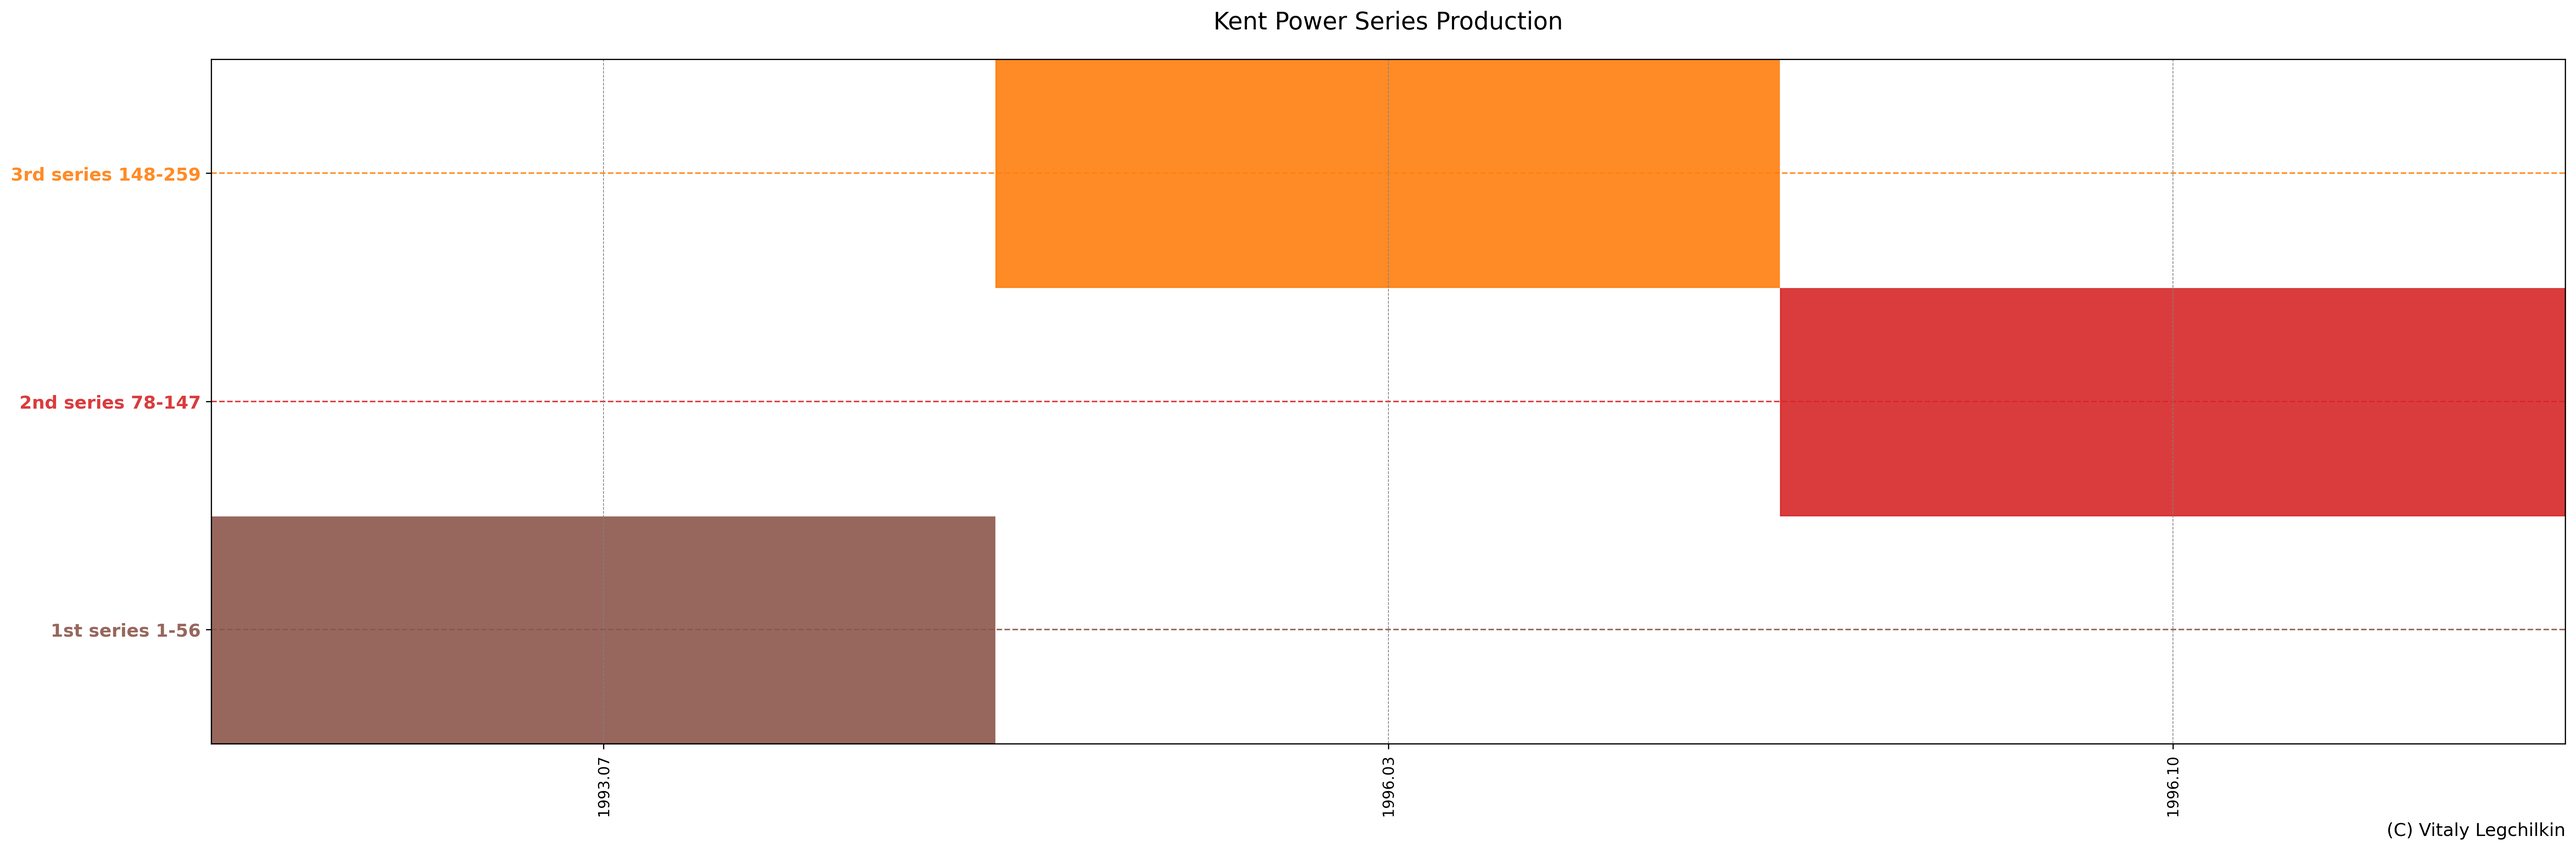
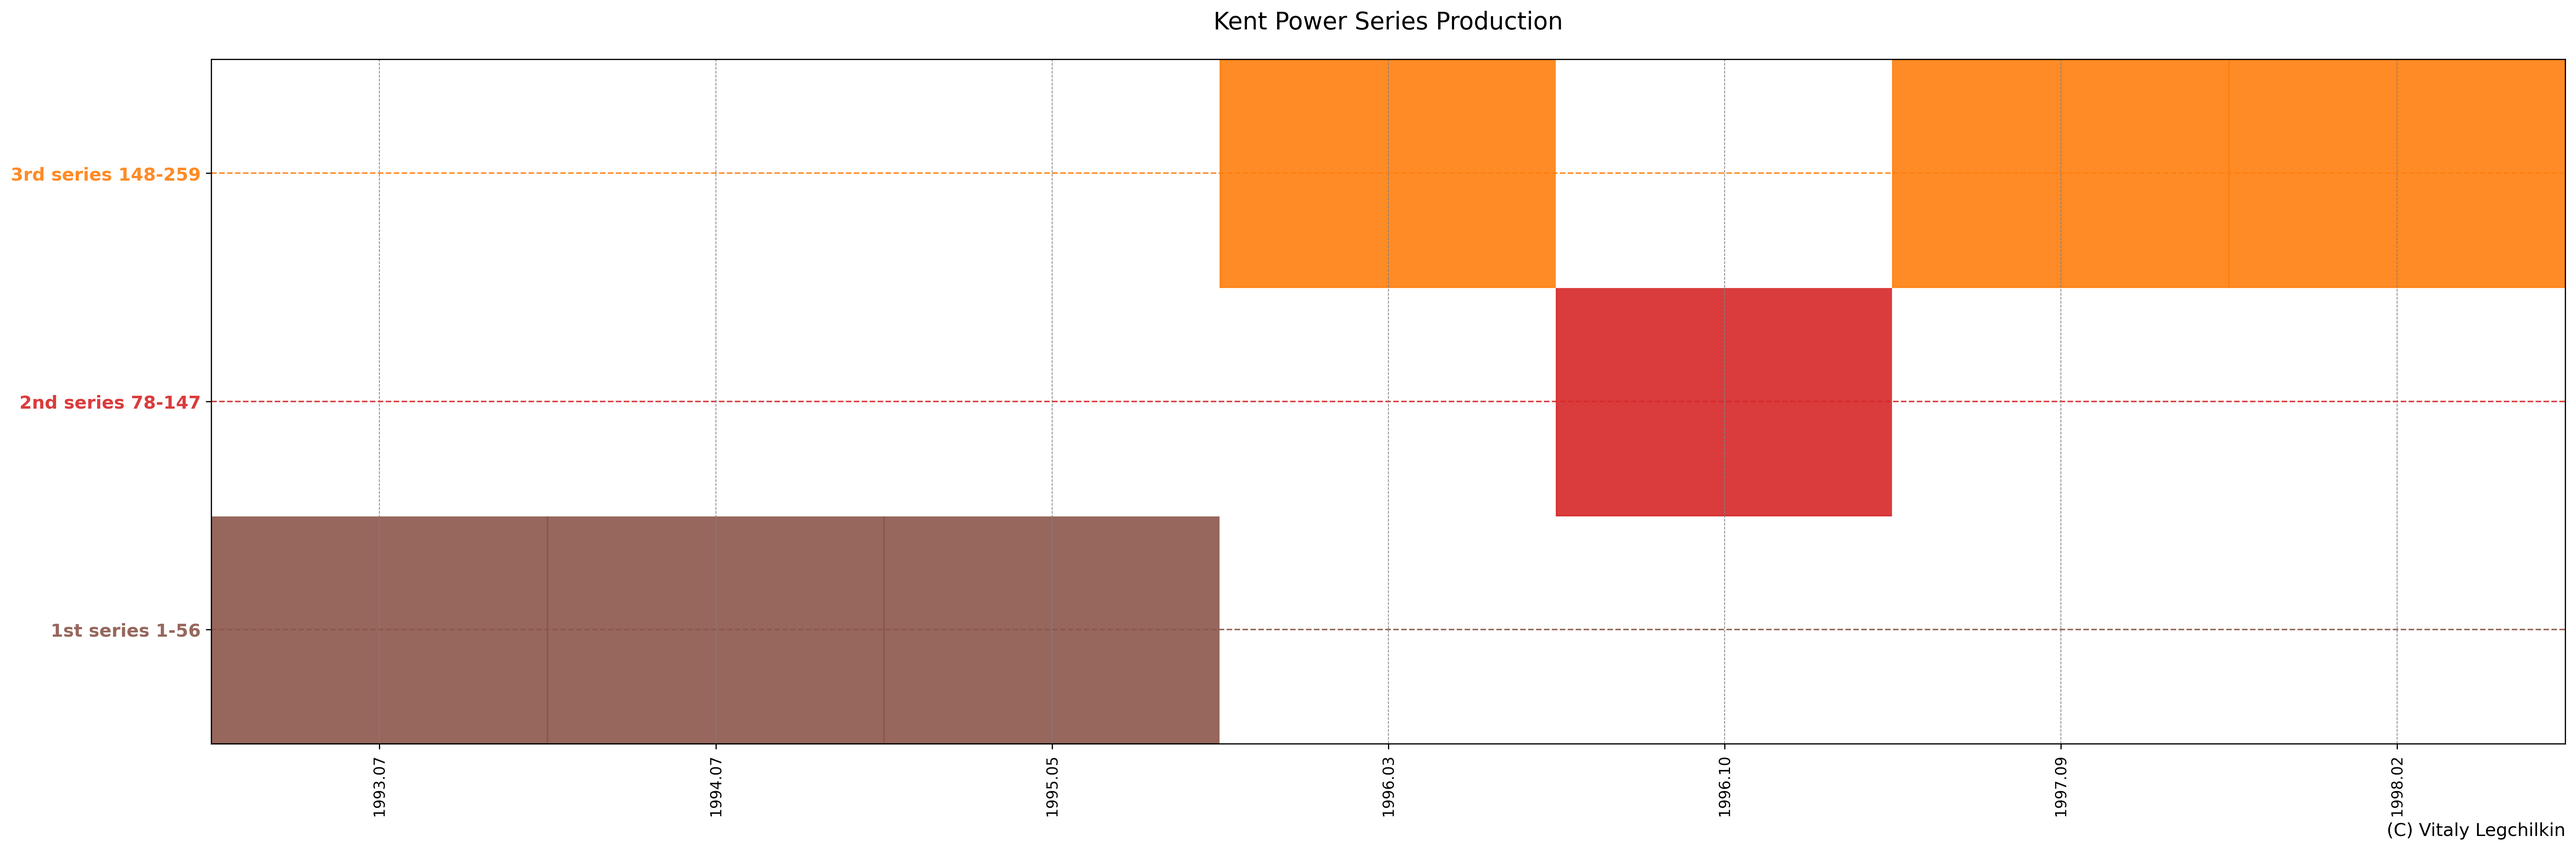
add power

Changed region(s): [[0.5935, 0.0617, 0.9996, 0.6168], [0.3748, 0.586, 0.4998, 0.8944], [0.3748, 0.0617, 0.4998, 0.3392]]

diff --git a/gum_wrappers/kent/power/index.md b/gum_wrappers/kent/power/index.md
@@ -10,13 +10,12 @@ layout: default
 
 ## Statistic
 
-
-\[Covers: 0 of 3\]
+\[Covers: 0 of 7\]
 \[Wrappers: 0 of 238\]
 
 ## [1st series 1-56](1-56)
 
-Covers: 0 / 1
+Covers: 0 / 3
 Wrappers: 0 / 56
 
 <table style="width:100%">
@@ -24,6 +23,10 @@ Wrappers: 0 / 56
         <td style="width:50%;text-align: center">
             1993.07 [G93] <br/>
             <a href='/collection/gum_wrappers/kent/turbo/missed_outer.png' target='_blank'><img src='/collection/gum_wrappers/kent/turbo/missed_outer.png' width='50' alt='1993.07 [G93] .1'/></a>
+            <br/>1994.07 [G94] <br/>
+            <a href='/collection/gum_wrappers/kent/turbo/missed_outer.png' target='_blank'><img src='/collection/gum_wrappers/kent/turbo/missed_outer.png' width='50' alt='1994.07 [G94] .1'/></a>
+            <br/>1995.05 [E95] <br/>
+            <a href='/collection/gum_wrappers/kent/turbo/missed_outer.png' target='_blank'><img src='/collection/gum_wrappers/kent/turbo/missed_outer.png' width='50' alt='1995.05 [E95] .1'/></a>
             <br/>
         </td>
         <td>
@@ -178,7 +181,7 @@ Wrappers: 0 / 70
 
 ## [3rd series 148-259](148-259)
 
-Covers: 0 / 1
+Covers: 0 / 3
 Wrappers: 0 / 112
 
 <table style="width:100%">
@@ -186,6 +189,10 @@ Wrappers: 0 / 112
         <td style="width:50%;text-align: center">
             1996.03 [C96] <br/>
             <a href='/collection/gum_wrappers/kent/turbo/missed_outer.png' target='_blank'><img src='/collection/gum_wrappers/kent/turbo/missed_outer.png' width='50' alt='1996.03 [C96] .1'/></a>
+            <br/>1997.09 [I-97] <br/>
+            <a href='/collection/gum_wrappers/kent/turbo/missed_outer.png' target='_blank'><img src='/collection/gum_wrappers/kent/turbo/missed_outer.png' width='50' alt='1997.09 [I-97] .1'/></a>
+            <br/>1998.02 [B-98] <br/>
+            <a href='/collection/gum_wrappers/kent/turbo/missed_outer.png' target='_blank'><img src='/collection/gum_wrappers/kent/turbo/missed_outer.png' width='50' alt='1998.02 [B-98] .1'/></a>
             <br/>
         </td>
         <td>

diff --git a/gum_wrappers/kent/power/148-259/README.md b/gum_wrappers/kent/power/148-259/README.md
@@ -4,9 +4,11 @@
 
 ### My collection
 
-|    Release    |                                                            1                                                             |
-|:-------------:|:------------------------------------------------------------------------------------------------------------------------:|
-| 1996.03 [C96] | [<img src='/collection/gum_wrappers/kent/turbo/missed_outer.png'>](/collection/gum_wrappers/kent/turbo/missed_outer.png) |
+|    Release     |                                                            1                                                             |
+|:--------------:|:------------------------------------------------------------------------------------------------------------------------:|
+| 1996.03 [C96]  | [<img src='/collection/gum_wrappers/kent/turbo/missed_outer.png'>](/collection/gum_wrappers/kent/turbo/missed_outer.png) |
+| 1997.09 [I-97] | [<img src='/collection/gum_wrappers/kent/turbo/missed_outer.png'>](/collection/gum_wrappers/kent/turbo/missed_outer.png) |
+| 1998.02 [B-98] | [<img src='/collection/gum_wrappers/kent/turbo/missed_outer.png'>](/collection/gum_wrappers/kent/turbo/missed_outer.png) |
 
 <span style="display: inline-block;">
 	<a href='thumbnails/inner/148.0.png' title=''><img src='thumbnails/inner/148.0.png' alt=''></a>

diff --git a/gum_wrappers/kent/power/1-56/README.md b/gum_wrappers/kent/power/1-56/README.md
@@ -7,6 +7,8 @@
 |    Release    |                                                            1                                                             |
 |:-------------:|:------------------------------------------------------------------------------------------------------------------------:|
 | 1993.07 [G93] | [<img src='/collection/gum_wrappers/kent/turbo/missed_outer.png'>](/collection/gum_wrappers/kent/turbo/missed_outer.png) |
+| 1994.07 [G94] | [<img src='/collection/gum_wrappers/kent/turbo/missed_outer.png'>](/collection/gum_wrappers/kent/turbo/missed_outer.png) |
+| 1995.05 [E95] | [<img src='/collection/gum_wrappers/kent/turbo/missed_outer.png'>](/collection/gum_wrappers/kent/turbo/missed_outer.png) |
 
 <span style="display: inline-block;">
 	<a href='thumbnails/inner/1.0.png' title=''><img src='thumbnails/inner/1.0.png' alt=''></a>

diff --git a/index.md b/index.md
@@ -8,6 +8,8 @@ layout: default
 
 ### [Turbo](gum_wrappers/kent/turbo)
 
+### [Power](gum_wrappers/kent/power)
+
 ### [Oto Moto](gum_wrappers/kent/oto-moto)
 
 ### Useful links
